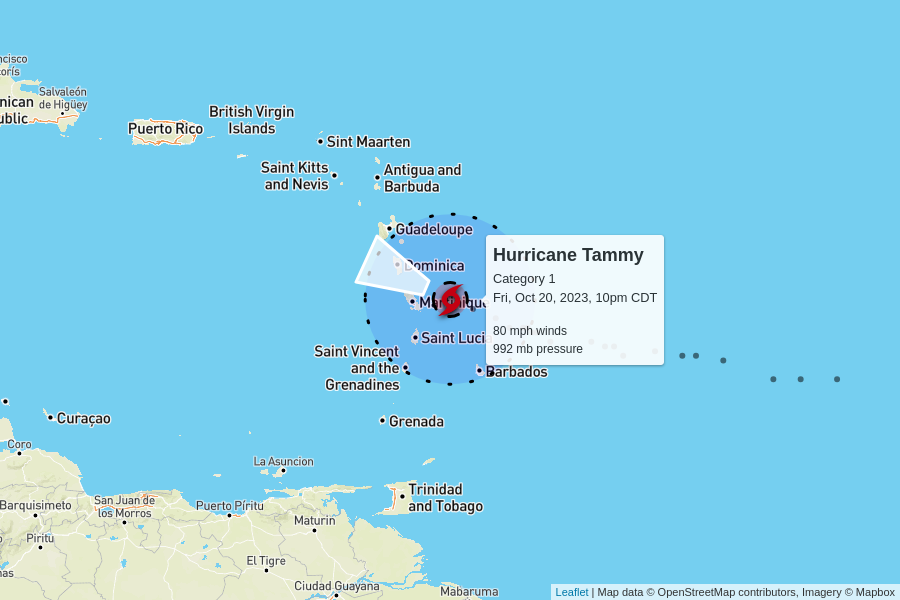
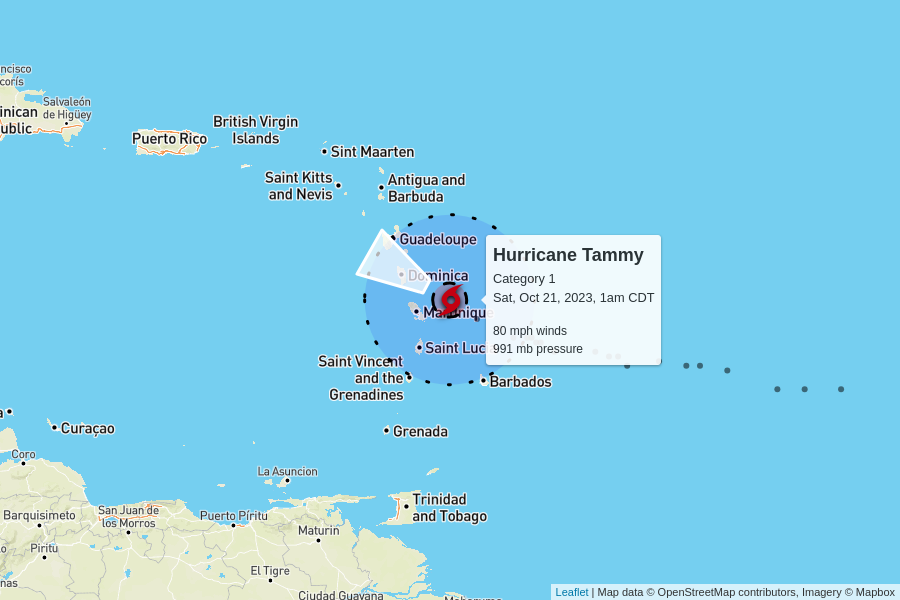
automatic update

diff --git a/docs/index.html b/docs/index.html
@@ -102,7 +102,7 @@
         <td colspan="6" class="storm category-1" >
           <h2>
             Hurricane Tammy - Category 1
-            <p class="updated">last updated <span data-time>2023-10-21T03:00:00.000Z</span></p>
+            <p class="updated">last updated <span data-time>2023-10-21T06:00:00.000Z</span></p>
           </h2>
         </td>
       </tr>
@@ -117,12 +117,12 @@
       </tr>
       <tr>
         <td class="spacer"></td>
-        <td>80 mph<br>+5 mph since last update</td>
-        <td>992 mb<br>+2 mb since last update</td>
+        <td>80 mph<br>0 mph since last update</td>
+        <td>991 mb<br>-1 mb since last update</td>
         <td>
           9 mph to the west-northwest
           <br/>
-          <span style="display: inline-block; font-size: 1.5em; transform: rotate(295deg);">↑</span>
+          <span style="display: inline-block; font-size: 1.5em; transform: rotate(300deg);">↑</span>
         </td>
         <td><a href="https://raw.githubusercontent.com/mgwalker/atlantic-hurricanes/main/data/csv/AL202023.csv">AL202023.csv</a></td>
         <td><a href="https://www.nhc.noaa.gov/archive/2023/TAMMY.shtml?">NHC advisories</a></td>
